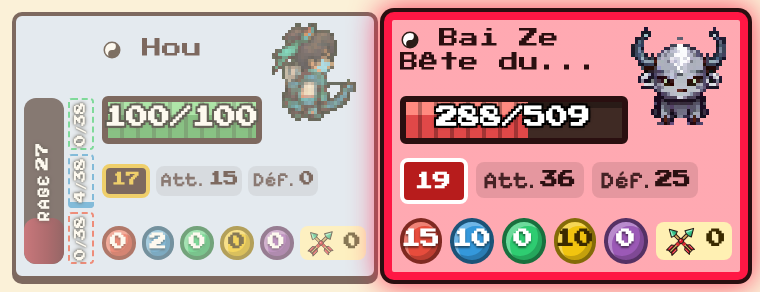
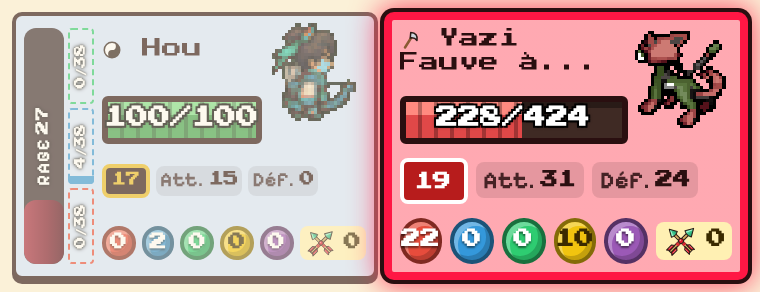
style(match3-quest): barres de rage sur toute la hauteur de la fiche
Claude-Session: https://claude.ai/code/session_0145pwWgMGpr1ALJz9LQJC5f

diff --git a/match3-quest/style.css b/match3-quest/style.css
@@ -3837,7 +3837,7 @@ body.rt .level-pill { font-size: 8px; padding: 2px 5px; }
 /* ── Rage et qì de l'ultime : barres VERTICALES, collées au bord gauche de la fiche du héros ───────────────────── */
 #player-stats:has(.rage-stat) { display: grid; grid-template-columns: auto minmax(0, 1fr); column-gap: 6px; }
 #player-stats:has(.rage-stat) > :not(.rage-stat) { grid-column: 2; }
-#player-stats:has(.rage-stat) > .rage-stat { grid-column: 1; grid-row: 2 / span 5; margin: 4px 0; align-self: stretch; }
+#player-stats:has(.rage-stat) > .rage-stat { grid-column: 1; grid-row: 1 / span 6; margin: 4px 0; align-self: stretch; }
 .rage-stat { flex-direction: row; align-items: stretch; gap: 3px; min-height: 0; }
 .rage-stat .rage-bar-container { width: 26px; height: 100%; flex: none; }
 .rage-stat .rage-bar, .rage-bar-container.ultimate-ready .rage-bar { width: 100%; height: 100%; min-height: 0; display: flex; align-items: flex-end; }
@@ -3853,7 +3853,7 @@ body.rt .level-pill { font-size: 8px; padding: 2px 5px; }
 /* Portrait : les rangs restent partagés avec la fiche ennemie (la rage occupe les rangs PV à pilules). */
 @media (orientation: portrait) {
     .stats-container > #player-stats:has(.rage-stat) { grid-template-columns: auto minmax(0, 1fr); }
-    #player-stats:has(.rage-stat) > .rage-stat { grid-row: 3 / span 3; }
+    #player-stats:has(.rage-stat) > .rage-stat { grid-row: 1 / span 5; }
     #player-stats > .rage-stat { grid-column: 1; }
 }
 #player-stats:has(.rage-stat) .row-stats { flex-wrap: nowrap; gap: 3px; }

diff --git a/match3-quest/SPECS.md b/match3-quest/SPECS.md
@@ -657,8 +657,8 @@ Spécifications et journal de session de `match3-quest/`.
 
 - 2026-11-04 (fiches de combat : niveau, pilules, largeur) : à la demande de l'utilisateur (capture d'une fiche héros/ennemi). Le niveau n'est plus « Niv. N » à côté du nom mais le **chiffre seul**, plus petit, en tête de la ligne Att./Déf. (`game.js`, `.level-pill`) : le nom de l'ennemi n'est plus tronqué par la pastille. Les **points d'action** passent sur la ligne des 5 pilules de qì, qui sont **justifiées** (`justify-content: space-between`, pleine largeur). Quand le héros a une jauge de rage (`equippedUltimate`), `.stats-container.has-rage` laisse le nom de l'ennemi passer sur 2 lignes (sa fiche étant étirée à la hauteur de celle du héros) pour qu'il soit lisible en entier ; les pilules rétrécissent plutôt que de déborder.
 
-- 2026-11-04 (fiches de combat alignées) : à la demande de l'utilisateur. En portrait, `.stats-container` devient une grille à 5 rangs (nom, états, PV, niveau/Att./Déf., pilules ; la rage verticale occupe les rangs PV à pilules) et chaque fiche une sous-grille (`grid-template-rows: subgrid`) : les lignes de l'ennemi sont alignées sur celles du héros, la rage laissant un rang vide côté ennemi. Rangs posés par les classes `row-name`, `row-hp`, `row-rage`, `row-stats`, `row-pills` (`game.js`, `style.css`). Paysage inchangé.
+- 2026-11-04 (fiches de combat alignées) : à la demande de l'utilisateur. En portrait, `.stats-container` devient une grille à 5 rangs (nom, états, PV, niveau/Att./Déf., pilules ; la rage verticale occupe toute la hauteur) et chaque fiche une sous-grille (`grid-template-rows: subgrid`) : les lignes de l'ennemi sont alignées sur celles du héros, la rage laissant un rang vide côté ennemi. Rangs posés par les classes `row-name`, `row-hp`, `row-rage`, `row-stats`, `row-pills` (`game.js`, `style.css`). Paysage inchangé.
 
 - 2026-11-04 (plafonds de qì abaissés, vocabulaire qì) : à la demande de l'utilisateur. Réserve maximale par point d'attribut : **1,3** au lieu de 2 (`ATTRIBUTE_MANA_RULES[*].bonuses.max`, arrondi à l'entier inférieur dans `manaBonusFor` et `getAttributeManaBonus`) : 100 de qì dans une couleur est atteint **au niveau 40** (39 points, 50 + ⌊39 × 1,3⌋). Fiche du héros : « Caps mana » devient « Caps qì », descriptions d'attributs « +1,3 par point ». Plus aucun « mana » visible par le joueur (les identifiants internes `mana`, `maxMana`, `manaCaps` restent, car ils sont écrits dans les sauvegardes). Sort `heavenTribulationEnd` (niveau 70) : coûts rouge/bleu/jaune 80 → 70, sinon il demandait 80 points pour 69 disponibles. Tests `attributes.test.js` (plafond 100 au niveau 40) et `savedGameMechanics.test.js` adaptés.
 
-- 2026-11-04 (rage et qì de l'ultime en barres verticales) : à la demande de l'utilisateur. La jauge de rage et la mini-barre de qì de l'ultime (un tronçon par couleur requise) deviennent **verticales**, en colonne à gauche de la fiche du héros (`#player-stats:has(.rage-stat)` passe en grille 2 colonnes), de la ligne PV à celle des pilules ; la rage se remplit par le bas (`.rage-fill { height }`), les tronçons de qì aussi, textes tournés (`writing-mode: vertical-rl`). Jauge pleine : « ULTIME » reste cliquable (cible ≥ 26 px de large).
+- 2026-11-04 (rage et qì de l'ultime en barres verticales) : à la demande de l'utilisateur. La jauge de rage et la mini-barre de qì de l'ultime (un tronçon par couleur requise) deviennent **verticales**, en colonne à gauche de la fiche du héros (`#player-stats:has(.rage-stat)` passe en grille 2 colonnes), sur toute la hauteur de la fiche ; la rage se remplit par le bas (`.rage-fill { height }`), les tronçons de qì aussi, textes tournés (`writing-mode: vertical-rl`). Jauge pleine : « ULTIME » reste cliquable (cible ≥ 26 px de large).
